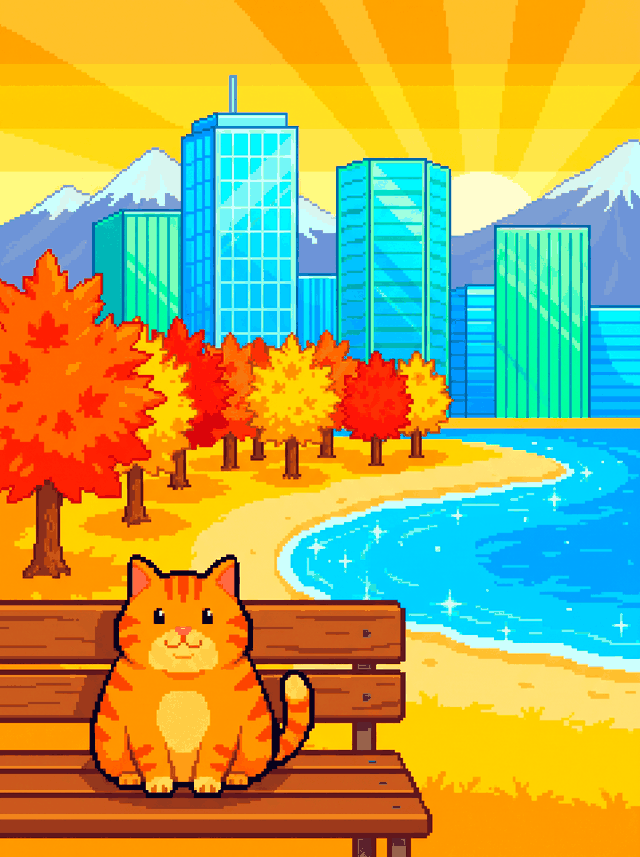
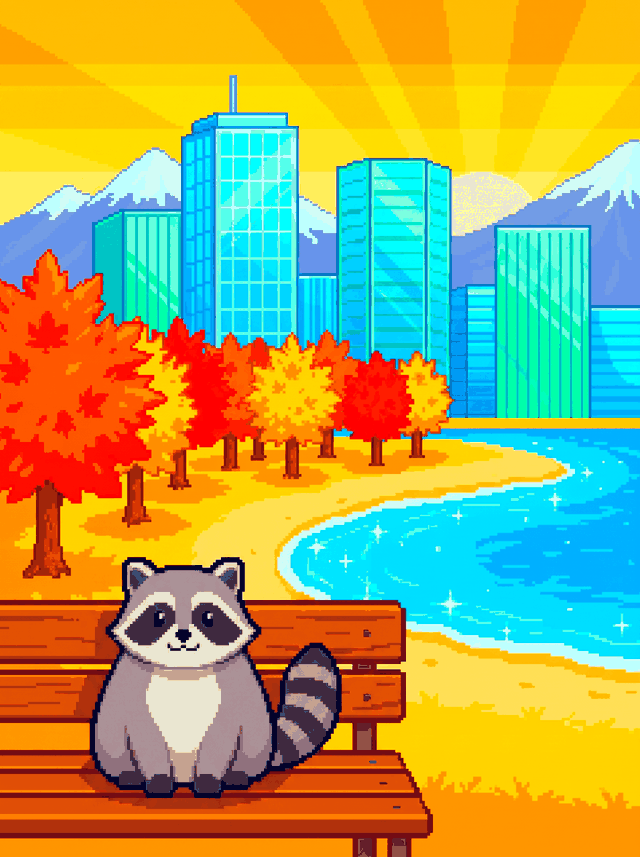
본혁 배경 고양이를 라쿤으로 교체 (평소·피버 두 판)

diff --git a/index.html b/index.html
@@ -19,7 +19,7 @@
   html { background: #6fc3f0; }
   body {
     min-height: 100vh;
-    background: #8ecbe8 url('assets/bg-title.png?v=3') center top / cover no-repeat fixed;
+    background: #8ecbe8 url('assets/bg-title.png?v=4') center top / cover no-repeat fixed;
     color: #17263f;
     font-family: Galmuri, -apple-system, "Apple SD Gothic Neo", "Malgun Gothic", monospace;
     -webkit-user-select: none; user-select: none;
@@ -176,9 +176,9 @@
   <p id="tips">마우스나 손가락을 좌우로 움직여 피하세요</p>
 </section>
 
-<script>window.ASSET_V = '3';</script>
-<script src="bgm.js?v=3"></script>
-<script src="chars.js?v=3"></script>
-<script src="game.js?v=3"></script>
+<script>window.ASSET_V = '4';</script>
+<script src="bgm.js?v=4"></script>
+<script src="chars.js?v=4"></script>
+<script src="game.js?v=4"></script>
 </body>
 </html>
